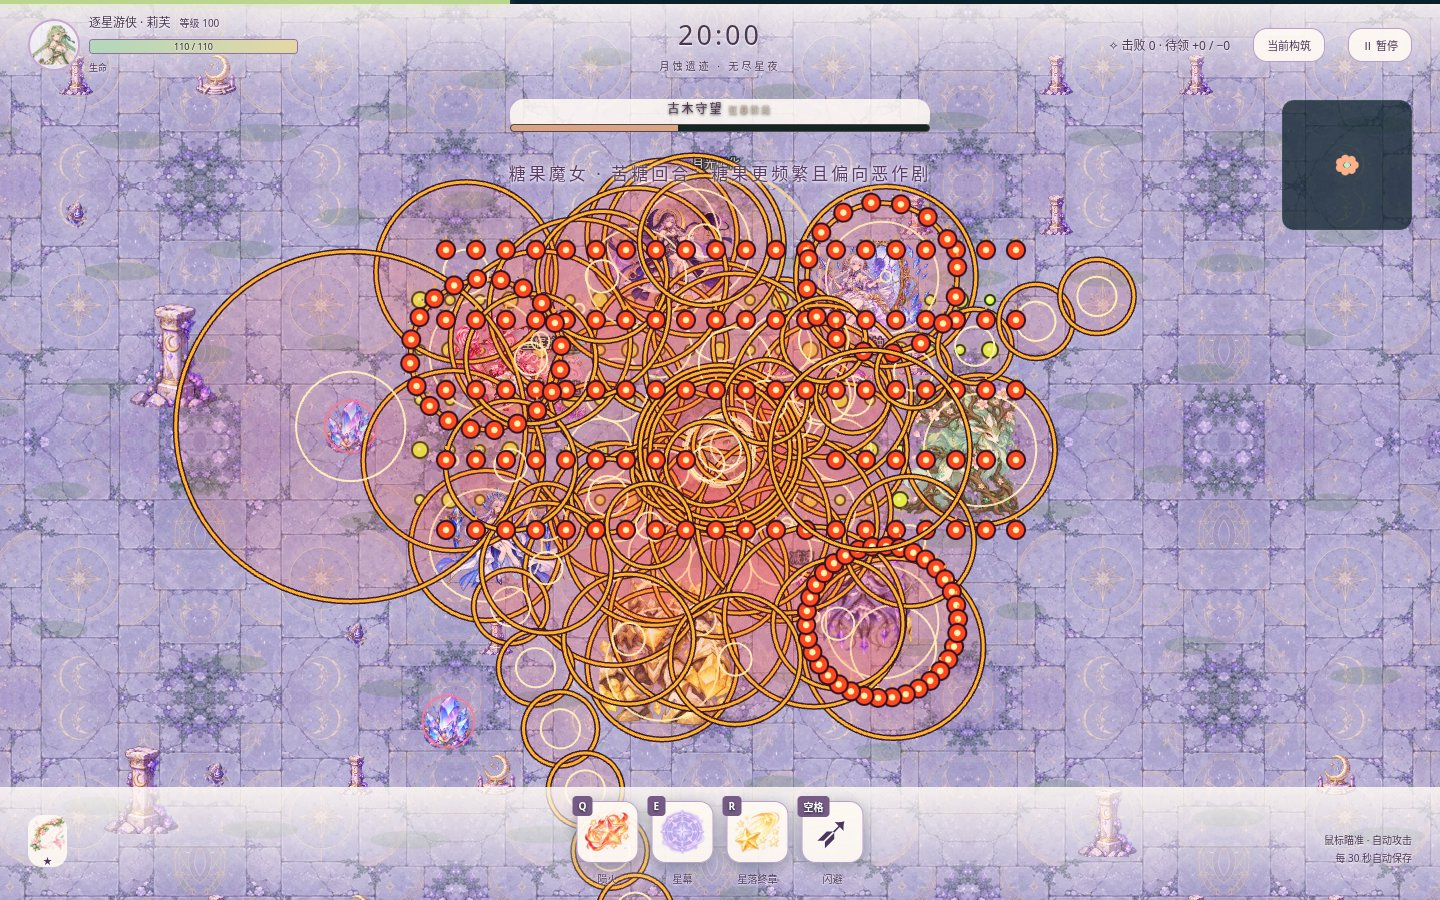
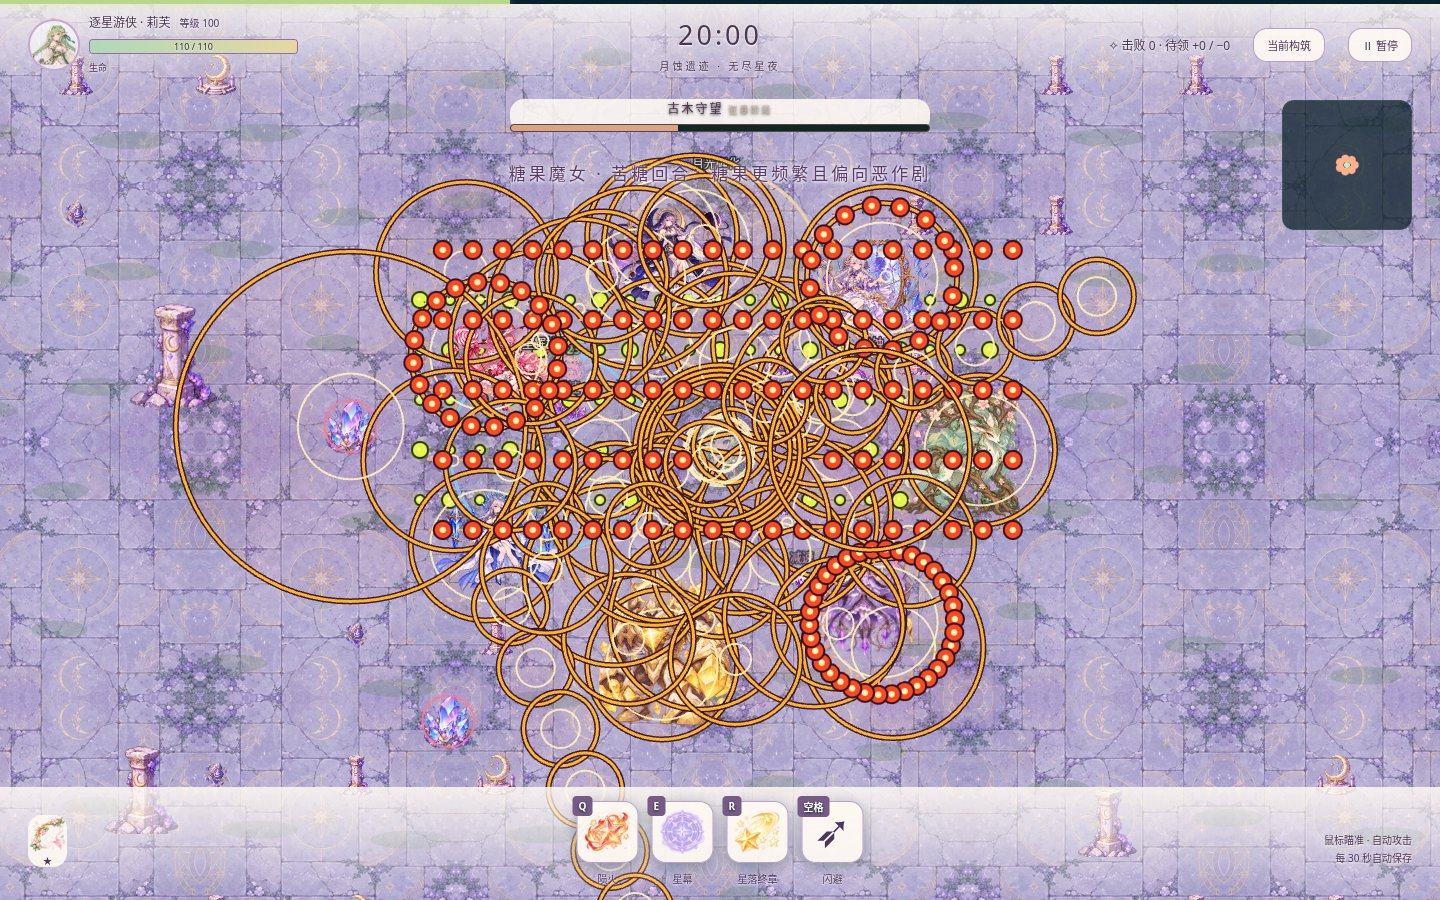
fix(rogue-survivor): keep overlapping hazard fills translucent

Changed region(s): [[0.2188, 0.1867, 0.7188, 0.8089], [0.1875, 0.4356, 0.2188, 0.5289]]

diff --git a/projects/RogueSurvivor/src/render/scene.ts b/projects/RogueSurvivor/src/render/scene.ts
@@ -22,6 +22,7 @@ export class GameScene extends Phaser.Scene {
   private background!: Phaser.GameObjects.Graphics;
   private graphics!: Phaser.GameObjects.Graphics;
   private danger!: Phaser.GameObjects.Graphics;
+  private friendly!: Phaser.GameObjects.Graphics;
   private sprites: Phaser.GameObjects.Sprite[] = [];
   private labels: Phaser.GameObjects.Text[] = [];
   private used = 0;
@@ -43,6 +44,7 @@ export class GameScene extends Phaser.Scene {
     this.background = this.add.graphics().setDepth(-2);
     this.graphics = this.add.graphics().setDepth(0);
     this.danger = this.add.graphics().setDepth(12);
+    this.friendly = this.add.graphics().setDepth(5);
     this.keys = this.input.keyboard!.addKeys(
       "W,A,S,D,Q,E,R,SPACE,ESC",
     ) as Record<string, Phaser.Input.Keyboard.Key>;
@@ -620,13 +622,37 @@ export class GameScene extends Phaser.Scene {
     }
     const danger = this.danger;
     danger.clear();
+    this.friendly.clear();
+    for (const b of s.bullets)
+      if (!b.enemy) {
+        const x = sx(b.x),
+          y = sy(b.y);
+        this.friendly.lineStyle(1.5, 0xaafaff, 0.65);
+        this.friendly.strokeCircle(x, y, b.r + 1);
+        this.friendly.fillStyle(0xf1ffff, 0.85);
+        this.friendly.fillCircle(x, y, Math.max(1.5, b.r * 0.4));
+      }
 
+    // Canvas fills each stage as one nonzero path: overlapping hazards must
+    // not accumulate opacity and conceal the player or the remaining gaps.
+    for (const warning of [true, false]) {
+      danger.fillStyle(0xff4020, warning ? 0.035 : 0.1);
+      danger.beginPath();
+      for (const z of s.zones)
+        if (z.enemy && z.delay > 0 === warning) {
+          const x = sx(z.x),
+            y = sy(z.y);
+          danger.moveTo(x + z.r, y);
+          danger.arc(x, y, z.r, 0, Math.PI * 2, false);
+          danger.closePath();
+        }
+      danger.fillPath();
+    }
     for (const z of s.zones)
       if (z.enemy) {
         const x = sx(z.x),
           y = sy(z.y);
-        danger.fillStyle(0xff4020, z.delay > 0 ? 0.05 : 0.12);
-        danger.fillCircle(x, y, z.r);
+
         danger.lineStyle(6, 0x351426, 0.95);
         danger.strokeCircle(x, y, z.r);
         danger.lineStyle(3, z.delay > 0 ? 0xffb32c : 0xff4828, 1);

diff --git a/projects/RogueSurvivor/src/main.ts b/projects/RogueSurvivor/src/main.ts
@@ -267,7 +267,7 @@ function pause() {
   screen = "pause";
   const d = difficulty(world.s.time);
   modal(
-    `<div class="eyebrow">呼吸片刻，再向前</div><h2>远征已暂停</h2><details><summary>极限星潮 · 当前难度</summary><p>当前时间 ${time(world.s.time)}<br>普通怪生命 ×${d.hp.toFixed(2)} · 伤害 ×${d.damage.toFixed(2)} · 攻击频率 ×${d.attackRate.toFixed(2)}<br>Boss生命 ×${bossHpMultiplier(world.s.time).toFixed(2)} · 伤害 ×${bossDamageMultiplier(world.s.time).toFixed(2)}<br>Boss基础攻击间隔 ${bossAttackInterval(world.s.time, false).toFixed(2)}秒 / 二阶段 ${bossAttackInterval(world.s.time, true).toFixed(2)}秒（技能独立间隔以技能为准）<br>${
+    `<div class="eyebrow">呼吸片刻，再向前</div><h2>远征已暂停</h2><details><summary>极限星潮 · 当前难度</summary><p>倍率用于当前新生成单位，相对基础属性，不含精英加成；已生成单位保留出生属性。<br>当前时间 ${time(world.s.time)}<br>普通怪生命 ×${d.hp.toFixed(2)} · 伤害 ×${d.damage.toFixed(2)} · 攻击频率 ×${d.attackRate.toFixed(2)}<br>Boss生命 ×${bossHpMultiplier(world.s.time).toFixed(2)} · 伤害 ×${bossDamageMultiplier(world.s.time).toFixed(2)}<br>Boss基础攻击间隔 ${bossAttackInterval(world.s.time, false).toFixed(2)}秒 / 二阶段 ${bossAttackInterval(world.s.time, true).toFixed(2)}秒（技能独立间隔以技能为准）<br>${
       world.s.enemies
         .filter((e) => ENEMIES[e.kind].boss)
         .map(

diff --git a/projects/RogueSurvivor/V1.4.1.md b/projects/RogueSurvivor/V1.4.1.md
@@ -19,3 +19,10 @@
 初次并行测试报告目录冲突、停止旧预览服务器引发连接错误、夹具spawnTimer超出合法10秒范围均已识别修正，失败未记作成功。后续串行运行。未做大规模/120分钟压力模拟、未测移动端/Firefox/Safari，不以云端FPS调整容量或贴图质量。工作流默认跑完整单元/构建/审计及全部浏览器回归；原有完整模拟命令仍保留，可在RogueSurvivor手动工作流勾选full_simulations执行，未更改其胜负断言。
 
 极端重叠攻击边界仍可能密集，无法保证任何Boss组合均存在安全通道；本轮未调整其强度或攻击落点。自定义敌弹图片仍绘制，危险核心作为固定安全识别层覆盖，避免自定义资源与背景同色。
+
+## 收尾验证记录
+
+- Canvas预警与伤害范围各用一条合并路径填充，避免区域叠加造成透明度累积；每个边界和收缩提示仍独立。玩家弹道另有5层青白核心，不覆盖12层危险。
+- 最终本地198单元/生产构建通过；四图七Boss组合截图4/4通过（44.4秒，Linux Chromium154，1440×900，Phaser Canvas/软件渲染），已实际查看四图。每图100个初始敌弹、100个初始晶体，并继续执行真实AI，不代表标准模式七Boss同时出现。
+- 完整43项本地E2E第一次42通过/1失败（7.6分钟）：失败停在首次首页“开启远征”出现前，未进入玩法断言；保留失败，远端最新全43项结果见PR。没有自动重试、删旧用例或放宽时限。
+- 原密集战斗E2E的一次HUD采样：Linux Chromium156 /1440×900/Canvas软件渲染，FPS15、318/800敌人、498/1200弹幕、46特效；无新增脚本异常。只是瞬时样本，不是平均帧率或硬件性能承诺，未据此降低容量。
